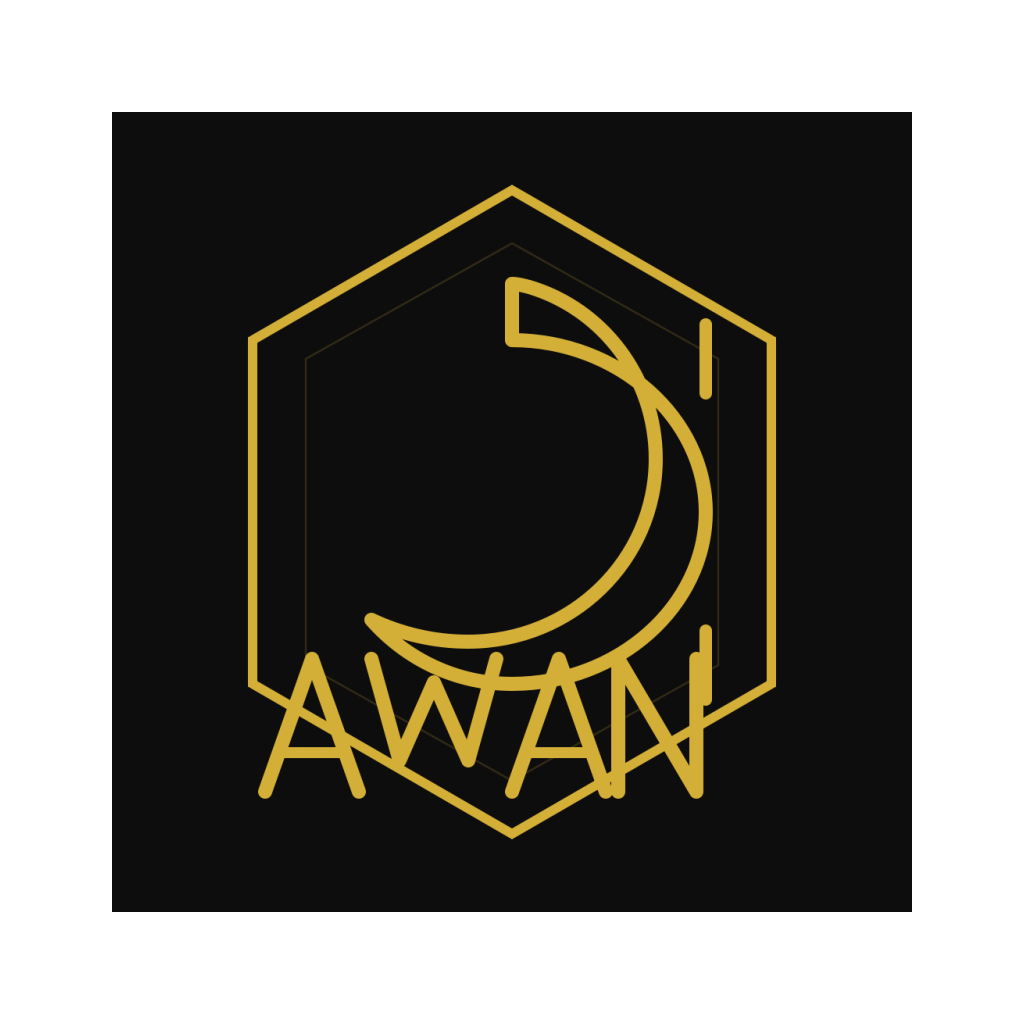
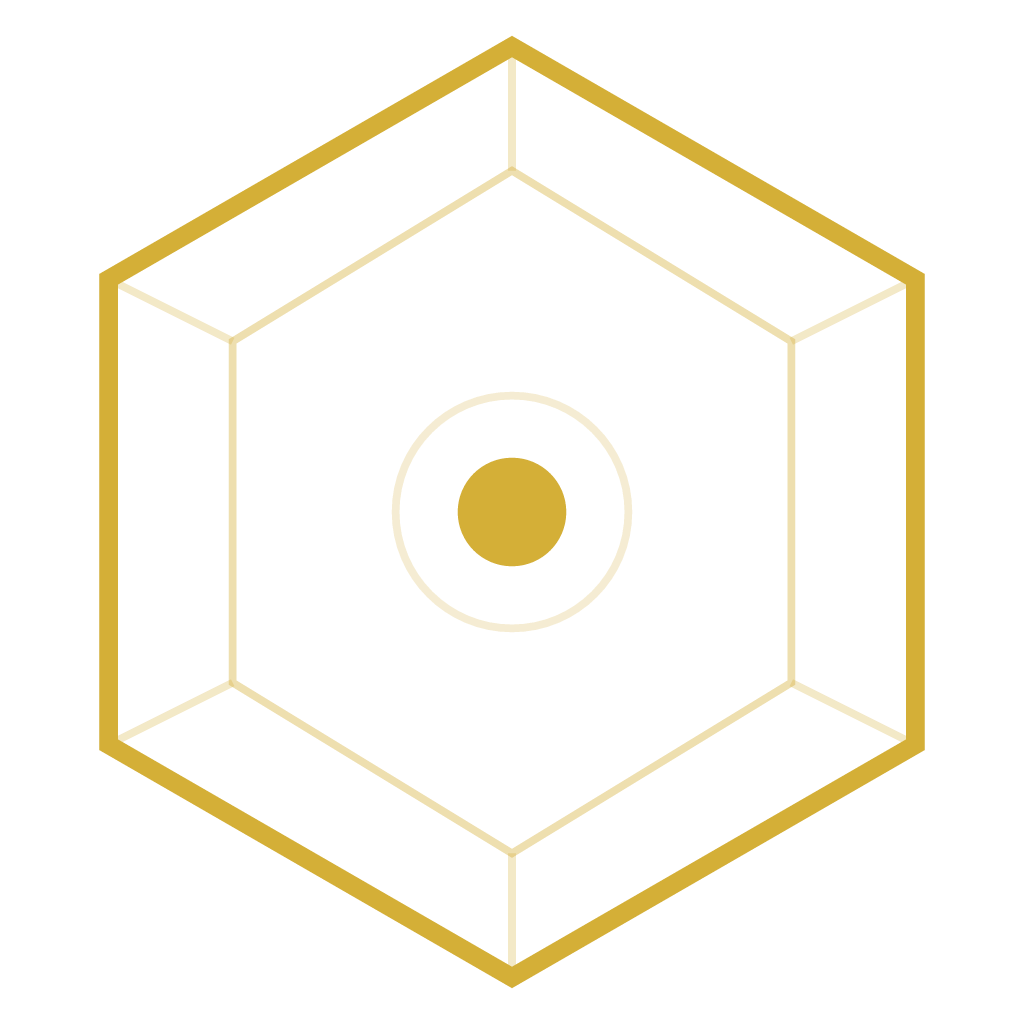
feat(planning): calendrier connecté aux silos via TimelineService + event bus
- Remplace les stubs eventsForDate/daysWithEvents par TimelineService.getByDate
- Dots grille mensuelle et annuelle reflètent les activités réelles (sport, nutrition, islam, sommeil, mensuration, journal, habitude, tâches)
- Section 'jour sélectionné' dans la vue mensuelle utilise useTimeline — affiche tous les domaines avec heure, titre, sous-titre, couleur par type
- Vue journalière (onglet 3) superpose les TimelineBar (marqueurs read-only) aux événements planning manuels conservés drag-and-drop
- Vue hebdomadaire : colonne restaurée depuis db.events + dot d'activité dans l'entête si TimelineService retourne au moins 1 item
- Carte stat 'Auj.' en bas compte les items TimelineService du jour courant
- Abonnement event bus (9 événements) déclenche un rechargement de tous les counts
- Guards 'cancelled' sur les 4 useEffect asynchrones (anti-leak si navigation hors écran)
- Icônes Android (adaptive-icon.png, icon.png) régénérées : logo hexagone seul, sans texte ni fond

https://claude.ai/code/session_01TJrouyDPaeWHYj9N1o9uEa

diff --git a/src/screens/PlanningScreen.tsx b/src/screens/PlanningScreen.tsx
@@ -1,4 +1,4 @@
-import React, { useState, useCallback, useMemo, useRef } from 'react';
+import React, { useState, useCallback, useMemo, useRef, useEffect } from 'react';
 import {
   View, Text, StyleSheet, ScrollView,
   Modal, TextInput as RNTextInput, Alert, Vibration,
@@ -16,7 +16,11 @@ import { useTheme } from '../hooks/useTheme';
 import { FontSans, FontMono } from '../constants/typography';
 import { L } from '../constants/labels';
 import { ds, parseDate, uid, dateId } from '../utils/storage';
-import { eventsForDate, daysWithEvents } from '../utils/recurrence';
+import { TimelineService, type TimelineItem } from '../modules/planning/timeline';
+import { TASK_TYPE_META } from '../data/schemas/planning/taskType';
+import { eventBus } from '../data/events/bus';
+import type { EventMap } from '../data/events/types';
+import { useTimeline } from '../hooks/useTimeline';
 import { useAppState } from '../context/AppStateContext';
 
 import { Clock, Plus, Download, ChevronLeft, ChevronRight, Calendar, Columns, Grid3X3, Zap, Target, Layers, Trash, TrendingUp } from 'lucide-react-native';
@@ -155,6 +159,11 @@ export default function PlanningScreen() {
   const [aiPriority, setAiPriority] = useState<1 | 2 | 3>(3);
   const [aiTimeCategory, setAiTimeCategory] = useState<'production' | 'friction' | 'slack' | 'somatique' | null>(null);
 
+  const [dayCounts, setDayCounts] = useState<Record<string, number>>({});
+  const [todayCount, setTodayCount] = useState(0);
+  const [busVersion, setBusVersion] = useState(0);
+  const { items: selDayItems } = useTimeline(ds(selDate));
+
   const categories = useMemo(() => {
     const base: any = { ...CATS };
     if (db?.categories) {
@@ -162,6 +171,70 @@ export default function PlanningScreen() {
     }
     return base;
   }, [db?.categories]);
+
+  // Abonnement event bus → recharger les counts quand une donnée est enregistrée dans un silo
+  useEffect(() => {
+    const EVENTS: ReadonlyArray<keyof EventMap> = [
+      'workout.completed', 'meal.logged', 'measurement.recorded', 'day.ended',
+      'planning.optimized', 'journal.logged', 'prayer.logged', 'quran.logged', 'habit.logged',
+    ];
+    const offs = EVENTS.map(ev => eventBus.on(ev, () => setBusVersion(v => v + 1)));
+    return () => offs.forEach(off => off());
+  }, []);
+
+  // Counts du mois visible (dots grille mensuelle + dot hebdo)
+  useEffect(() => {
+    let cancelled = false;
+    const yr = calDate.getFullYear(), mo = calDate.getMonth();
+    const dim = new Date(yr, mo + 1, 0).getDate();
+    const entries: Array<{ dstr: string; p: Promise<number> }> = [];
+    for (let day = 1; day <= dim; day++) {
+      const dstr = `${yr}-${String(mo + 1).padStart(2, '0')}-${String(day).padStart(2, '0')}`;
+      entries.push({ dstr, p: TimelineService.getByDate(dstr).then(items => items.length) });
+    }
+    Promise.all(entries.map(async ({ dstr, p }) => ({ dstr, count: await p }))).then(results => {
+      if (cancelled) return;
+      setDayCounts(prev => {
+        const next = { ...prev };
+        results.forEach(({ dstr, count }) => { next[dstr] = count; });
+        return next;
+      });
+    });
+    return () => { cancelled = true; };
+  }, [calDate, busVersion]);
+
+  // Counts de l'année (dots grille annuelle) — chargés mois par mois
+  useEffect(() => {
+    let cancelled = false;
+    const yr = annDate.getFullYear();
+    const loadYear = async () => {
+      for (let mo = 0; mo < 12 && !cancelled; mo++) {
+        const dim = new Date(yr, mo + 1, 0).getDate();
+        const entries: Array<{ dstr: string; p: Promise<number> }> = [];
+        for (let day = 1; day <= dim; day++) {
+          const dstr = `${yr}-${String(mo + 1).padStart(2, '0')}-${String(day).padStart(2, '0')}`;
+          entries.push({ dstr, p: TimelineService.getByDate(dstr).then(items => items.length) });
+        }
+        const results = await Promise.all(entries.map(async ({ dstr, p }) => ({ dstr, count: await p })));
+        if (!cancelled) {
+          setDayCounts(prev => {
+            const next = { ...prev };
+            results.forEach(({ dstr, count }) => { next[dstr] = count; });
+            return next;
+          });
+        }
+      }
+    };
+    loadYear();
+    return () => { cancelled = true; };
+  }, [annDate, busVersion]);
+
+  // Compte du jour actuel (carte stat en bas)
+  useEffect(() => {
+    let cancelled = false;
+    TimelineService.getByDate(ds(new Date())).then(items => { if (!cancelled) setTodayCount(items.length); });
+    return () => { cancelled = true; };
+  }, [busVersion]);
 
   // Création d'événement par appui long + glissement vertical sur la grille quotidienne.
   // (remplace les anciens pointer events web par un geste react-native-gesture-handler)
@@ -251,11 +324,11 @@ export default function PlanningScreen() {
     for (let i = start - 1; i >= 0; i--) cells.push({ day: dipm - i, cur: false, dstr: null, evs: [] });
     for (let day = 1; day <= dim; day++) {
       const dstr = `${yr}-${String(mo+1).padStart(2,'0')}-${String(day).padStart(2,'0')}`;
-      cells.push({ day, cur: true, dstr, isToday: dstr === todayStr, evs: eventsForDate(db, dstr) });
+      cells.push({ day, cur: true, dstr, isToday: dstr === todayStr, evs: (dayCounts[dstr] ?? 0) > 0 ? [true] : [] });
     }
     while (cells.length % 7 !== 0) cells.push({ day: cells.length - (start + dim) + 1, cur: false, dstr: null, evs: [] });
     return cells;
-  }, [calDate, db]);
+  }, [calDate, dayCounts]);
 
   const selectDate = useCallback((dateStr: string) => {
     if (ds(selDate) === dateStr) { setPrevTab(subTab); setSubTab(3); }
@@ -299,7 +372,7 @@ export default function PlanningScreen() {
           <Text style={{ textTransform: 'uppercase', marginBottom: 12, fontFamily: FontSans, fontSize: 7, fontWeight: Fw.value, color: theme.mute, letterSpacing: 2.1 }}>
             {new Date(selDate).toLocaleDateString('fr-FR', { weekday: 'long', day: 'numeric', month: 'long' }).toUpperCase()}
           </Text>
-          <EvListSection events={eventsForDate(db, ds(selDate))} categories={categories} onAdd={() => setShowEvModal(true)} onAddRt={() => setShowRtModal(true)} onEdit={(ev: any) => { setEditEv(ev); setShowEvModal(true); }} />
+          <SelDaySection items={selDayItems} onAdd={() => setShowEvModal(true)} onAddRt={() => setShowRtModal(true)} />
         </View>
       </ScrollView>
     );
@@ -312,7 +385,8 @@ export default function PlanningScreen() {
     const lbl = mon.toLocaleDateString('fr-FR',{day:'numeric',month:'short'})+' — '+sun.toLocaleDateString('fr-FR',{day:'numeric',month:'short'});
     const cols = Array.from({ length: 7 }).map((_, i) => {
       const day = new Date(mon); day.setDate(mon.getDate() + i);
-      return { day, dstr: ds(day), evs: eventsForDate(db, ds(day)) };
+      const dstr = ds(day);
+      return { day, dstr, evs: (db?.events || []).filter((e: any) => e.date === dstr) };
     });
     const hours = Array.from({ length: 24 }).map((_, h) => `${String(h).padStart(2, '0')}:00`);
     return (
@@ -329,6 +403,7 @@ export default function PlanningScreen() {
               <Touch key={i} style={{ flex: 1, alignItems: 'center', justifyContent: 'center', height: 64, borderWidth: 1, borderColor: isToday ? Clr.gold30 : 'transparent', backgroundColor: isToday ? Clr.gold10 : 'transparent' }} onPress={() => selectDate(c.dstr)}>
                 <Text style={{ fontSize: Fs.xs, fontWeight: Fw.display, color: theme.mute, marginBottom: 8, textTransform: 'uppercase', letterSpacing: 1.6, fontFamily: FontMono }}>{DAYS_S[i]}</Text>
                 <Text style={{ fontSize: 20, fontWeight: Fw.display, color: isToday ? theme.selected : theme.title }}>{c.day.getDate()}</Text>
+                {(dayCounts[c.dstr] ?? 0) > 0 && <View style={{ width: 4, height: 4, borderRadius: 2, backgroundColor: isToday ? theme.selected : 'rgba(212,175,55,0.5)', marginTop: 3 }} />}
               </Touch>
             );
           })}
@@ -364,7 +439,12 @@ export default function PlanningScreen() {
         <View style={{ flexDirection: 'row', flexWrap: 'wrap', gap: 16, marginBottom: 96 }}>
           {Array.from({ length: 12 }).map((_, mo) => {
             const dim = new Date(yr, mo + 1, 0).getDate();
-            const daysSet = daysWithEvents(db, yr, mo);
+            const moStr = String(mo + 1).padStart(2, '0');
+            const daysSet = new Set(
+              Object.entries(dayCounts)
+                .filter(([dstr, cnt]) => dstr.startsWith(`${yr}-${moStr}-`) && cnt > 0)
+                .map(([dstr]) => parseInt(dstr.split('-')[2]!, 10))
+            );
             const first = new Date(yr, mo, 1).getDay();
             const start = first === 0 ? 6 : first - 1;
             const cells = [];
@@ -414,7 +494,8 @@ export default function PlanningScreen() {
               <View style={{ flex: 1, position: 'relative' }}>
                 {hours.map((_, h) => <View key={h} style={{ height: 80, borderBottomWidth: 1, borderBottomColor: Clr.white5, opacity: 0.05 }} />)}
                 {creatingEv && <View style={{ position: 'absolute', left: 4, right: 4, backgroundColor: Clr.gold20, borderLeftWidth: 4, borderLeftColor: theme.selected, padding: 12, zIndex: 10, top: (creatingEv.startMins / 60) * 80, height: (creatingEv.duration / 60) * 80 }}><Text style={{ fontSize: Fs.md, fontWeight: Fw.display, color: theme.title, textTransform: 'uppercase', letterSpacing: 1.8 }}>{creatingEv.title}</Text></View>}
-                {eventsForDate(db, dstr).map((ev: any) => ev.time && <DraggableEvent key={ev.id} ev={ev} hourHeight={80} handleEventDragEnd={handleEventDragEnd} setEditEv={setEditEv} setShowEvModal={setShowEvModal} categories={categories} />)}
+                {(db?.events || []).filter((e: any) => e.date === dstr).map((ev: any) => ev.time && <DraggableEvent key={ev.id} ev={ev} hourHeight={80} handleEventDragEnd={handleEventDragEnd} setEditEv={setEditEv} setShowEvModal={setShowEvModal} categories={categories} />)}
+                {selDayItems.filter(item => item.startMin != null).map(item => <TimelineBar key={item.id} item={item} hourHeight={80} theme={theme} />)}
               </View>
             </GestureDetector>
           </View>
@@ -726,7 +807,7 @@ export default function PlanningScreen() {
       <View style={{ paddingHorizontal: 24, paddingBottom: 96, flexDirection: 'row', gap: 16, marginTop: 'auto' }}>
         <Card variant="flat" style={[sp.row, { flex: 1, gap: 16, paddingVertical: 24, paddingHorizontal: 24, backgroundColor: theme.surface, borderWidth: 1, borderColor: theme.border }]}>
           <View style={{ width: 40, height: 40, backgroundColor: Clr.gold10, alignItems: 'center', justifyContent: 'center', borderWidth: 1, borderColor: Clr.gold20 }}><Zap size={18} color={theme.selected} /></View>
-          <View><Text style={{ fontSize: 24, fontWeight: Fw.display, color: theme.title }}>{eventsForDate(db, ds(new Date())).length}</Text><Text style={[sp.sm, { color: theme.mute, fontFamily: FontMono }]}>Auj.</Text></View>
+          <View><Text style={{ fontSize: 24, fontWeight: Fw.display, color: theme.title }}>{todayCount}</Text><Text style={[sp.sm, { color: theme.mute, fontFamily: FontMono }]}>Auj.</Text></View>
         </Card>
         <Card variant="flat" style={[sp.row, { flex: 1, gap: 16, paddingVertical: 24, paddingHorizontal: 24, backgroundColor: theme.surface, borderWidth: 1, borderColor: theme.border }]}>
           <View style={{ width: 40, height: 40, backgroundColor: theme.surface, alignItems: 'center', justifyContent: 'center', borderWidth: 1, borderColor: theme.border }}><Layers size={18} color={theme.mute} /></View>
@@ -856,6 +937,76 @@ function ImportModal({ visible, onClose, onImport }: any) {
         </View>
       </View>
     </Modal>
+  );
+}
+
+const TYPE_COLOR_IDX: Record<string, number> = {
+  sport: 0, nutrition: 1, islam: 2, sommeil: 3,
+  mensuration: 4, journal: 5, habitude: 6, tache: 7,
+};
+
+function TimelineBar({ item, hourHeight, theme }: { item: TimelineItem; hourHeight: number; theme: any }) {
+  const color = (theme.palette as string[])?.[TYPE_COLOR_IDX[item.type] ?? 0] ?? theme.selected;
+  const top = (item.startMin! / 60) * hourHeight;
+  const heightPx = item.durationMin != null ? (item.durationMin / 60) * hourHeight : hourHeight / 4;
+  return (
+    <View pointerEvents="none" style={{
+      position: 'absolute', left: 2, right: 2, top,
+      height: Math.max(heightPx, 12),
+      backgroundColor: `${color}14`, borderLeftWidth: 3, borderLeftColor: color,
+      borderRadius: 4, padding: 4,
+    }}>
+      <Text style={{ fontSize: 9, color: theme.title, fontFamily: FontMono, opacity: 0.8 }} numberOfLines={1}>{item.title}</Text>
+    </View>
+  );
+}
+
+function SelDaySection({ items, onAdd, onAddRt }: { items: TimelineItem[]; onAdd: () => void; onAddRt: () => void }) {
+  const theme = useTheme();
+  return (
+    <View style={{ gap: 8 }}>
+      {items.length === 0 ? (
+        <View style={{ paddingVertical: 20, alignItems: 'center' }}>
+          <Text style={{ fontFamily: FontMono, fontSize: Fs.xs, color: theme.mute, letterSpacing: 1.8, textTransform: 'uppercase' }}>Aucune activité</Text>
+        </View>
+      ) : (
+        items.map(item => <SelDayItem key={item.id} item={item} />)
+      )}
+      <View style={[sp.row, { gap: 16, paddingTop: 8 }]}>
+        <Touch onPress={onAdd} style={{ flex: 1, backgroundColor: theme.selected, height: 56, alignItems: 'center', justifyContent: 'center' }}>
+          <Text style={{ fontSize: Fs.md, fontWeight: Fw.display, color: '#000', textTransform: 'uppercase', letterSpacing: 2, fontFamily: FontMono }}>Nouvel Événement</Text>
+        </Touch>
+        <Touch onPress={onAddRt} style={{ flex: 1, backgroundColor: Clr.white5, borderWidth: 1, borderColor: Clr.white10, height: 56, alignItems: 'center', justifyContent: 'center' }}>
+          <Text style={{ fontSize: Fs.md, fontWeight: Fw.display, color: theme.mute, textTransform: 'uppercase', letterSpacing: 2, fontFamily: FontMono }}>Routine</Text>
+        </Touch>
+      </View>
+    </View>
+  );
+}
+
+function SelDayItem({ item }: { item: TimelineItem }) {
+  const theme = useTheme();
+  const time = item.startMin != null
+    ? `${String(Math.floor(item.startMin / 60)).padStart(2, '0')}:${String(item.startMin % 60).padStart(2, '0')}`
+    : '--:--';
+  const color = (theme.palette as string[])?.[TYPE_COLOR_IDX[item.type] ?? 0] ?? theme.selected;
+  return (
+    <View style={{ flexDirection: 'row', borderWidth: 1, borderColor: theme.border, backgroundColor: 'rgba(255,255,255,0.02)', overflow: 'hidden' }}>
+      <View style={{ width: 3, backgroundColor: color }} />
+      <View style={{ flex: 1, paddingHorizontal: 16, paddingVertical: 12 }}>
+        <View style={{ flexDirection: 'row', justifyContent: 'space-between', marginBottom: 4 }}>
+          <View style={{ flexDirection: 'row', alignItems: 'center', gap: 8 }}>
+            <Clock size={10} color={theme.mute} />
+            <Text style={{ fontFamily: FontMono, fontSize: 10, fontWeight: Fw.value, color: theme.title, letterSpacing: 0.5 }}>{time}</Text>
+          </View>
+          <Text style={{ fontFamily: FontMono, fontSize: 7, fontWeight: Fw.value, color, letterSpacing: 1.75 }}>
+            {(TASK_TYPE_META[item.type]?.label ?? item.type).toUpperCase()}
+          </Text>
+        </View>
+        <Text style={{ fontFamily: FontSans, fontSize: 13, fontWeight: Fw.value, color: theme.title, letterSpacing: 0.52, textTransform: 'uppercase' }} numberOfLines={1}>{item.title}</Text>
+        {item.subtitle ? <Text style={{ fontFamily: FontMono, fontSize: 8, color: theme.mute, letterSpacing: 0.8, marginTop: 2 }}>{item.subtitle}</Text> : null}
+      </View>
+    </View>
   );
 }
 